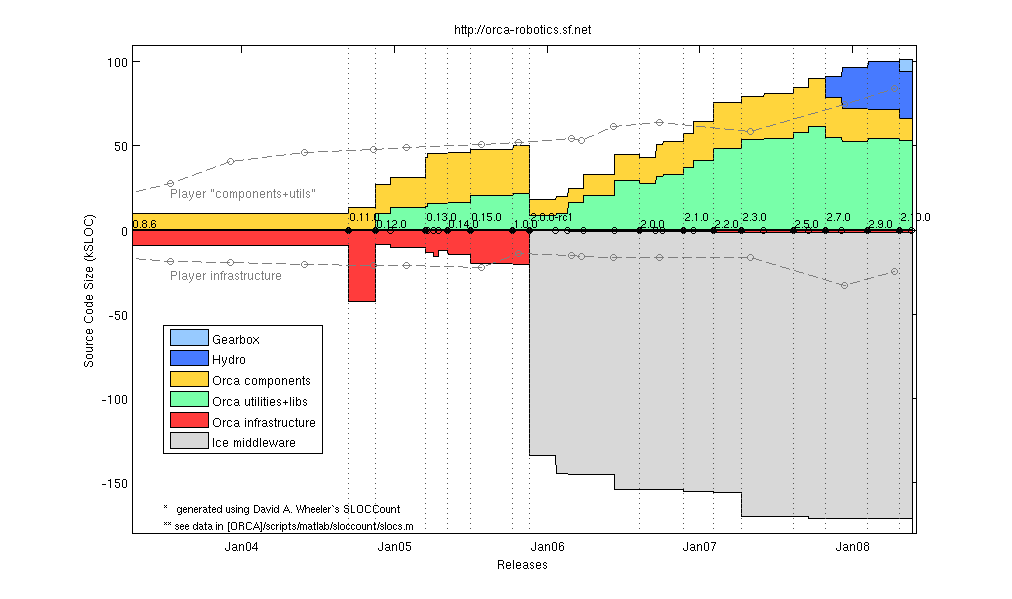
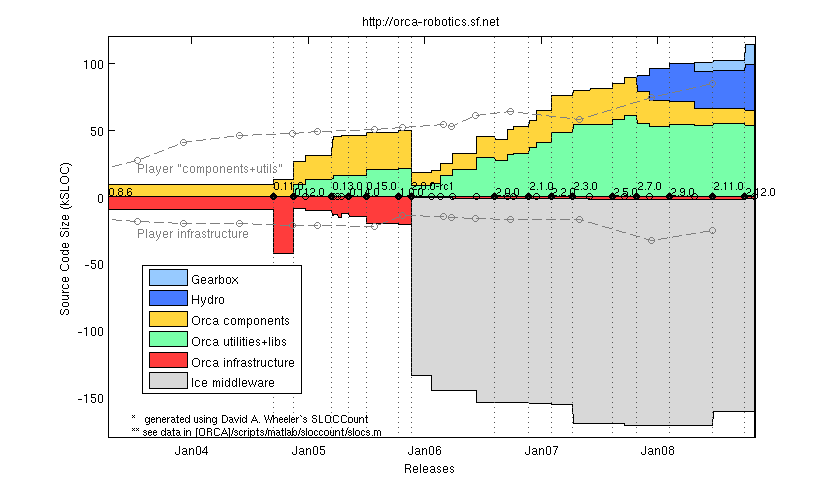
git-svn-id: https://orca-robotics.svn.sf.net/svnroot/orca-robotics/orca/trunk@4914 534d5172-be3c-0410-9a3e-ccaa6372a113

diff --git a/scripts/matlab/sloccount/slocs.m b/scripts/matlab/sloccount/slocs.m
@@ -98,7 +98,7 @@ Sorca = [ ...
 % YY    MM  DD  ?   SUB     BASE    COMP    UTILS  A&D   COMMON VERSION
 2008     4  24  0   Sice321 1825    12851   53186  28196  6750  % 2.10.0 (G 1.0.0)
 2008     6  22  1   Sice330 1819    11680   54648  28410  7277  % 2.11.0 (G 1.0.0)
-2008     8  10  1   Sice330 1819    11680   54648  28410  14787 % 2.12.0 (G 8,07)
+2008     9  30  1   Sice330 1583    10865   53525  34710  15020 % 2.12.0 (G 8,07)
 ];
 Vorca ={'0.8.6', '0.11.0', '0.12.0', '0.12.1', '0.13.0', '0.13.1', '0.13.2', '0.13.3', '0.14.0', '0.15.0', '1.0.0', ...
     '2.0.0-rc1', '2.0.0-rc2', '2.0.0-rc3', '2.0.0-rc4', '2.0.0-rc5', '2.0.0', '2.0.1', '2.0.2', '2.1.0', '2.1.1', ...
